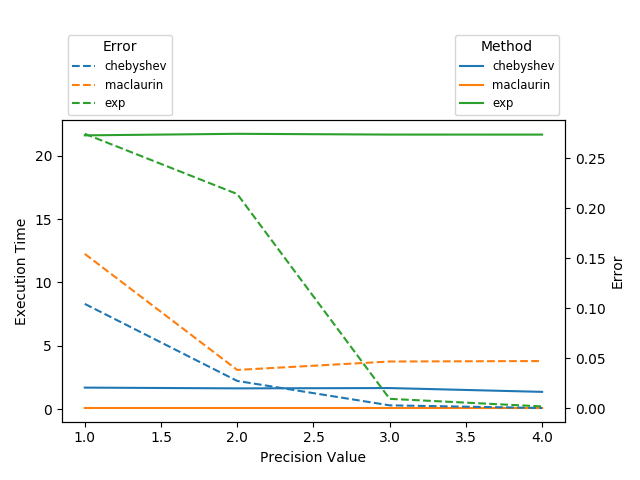
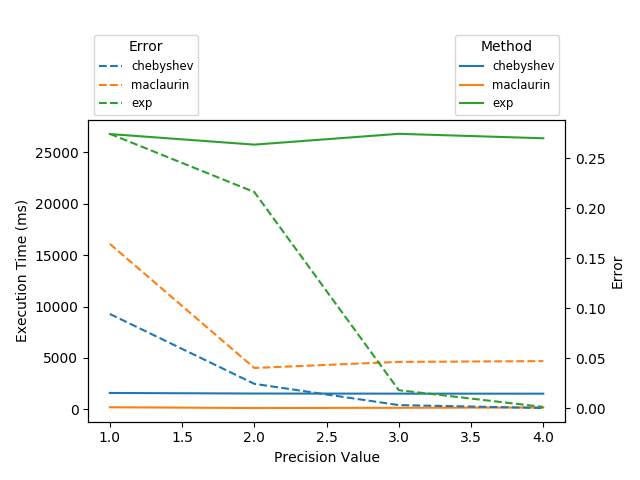
added execution time in ms, bugs fixed

diff --git a/syft/frameworks/torch/mpc/benchmarks/scripts/benchmark_sigmoid.py b/syft/frameworks/torch/mpc/benchmarks/scripts/benchmark_sigmoid.py
@@ -8,7 +8,7 @@ from syft.frameworks.torch.mpc.benchmarks.scripts.benchmark_sample_data import (
 )
 
 
-def benchmark_sigmoid(method, prec_frac, workers):
+def benchmark_sigmoid(method, prec_frac, tolerance, workers):
     """
     This function approximates the sigmoid function using a given method.
 
@@ -31,6 +31,9 @@ def benchmark_sigmoid(method, prec_frac, workers):
     # Calculation of the difference between FPT and normal sigmoid (error)
     diff = (r - t).abs().max()
     return diff.item()
+    # norm = (r + t).abs().max() / 2
+    #
+    # return (diff / (tolerance * norm)) < 1
 
 
 def sigmoid_approximation_plot(benchmark_data_sigmoid):
@@ -76,6 +79,7 @@ def sigmoid_approximation_plot(benchmark_data_sigmoid):
                 temp_error.append(error)
 
             final_time_taken = sum(temp_time_taken) / len(temp_time_taken)
+            final_time_taken *= 1000
             final_error = sum(temp_error) / len(temp_error)
             x_data.append(precision_value)
             y_data.append(final_time_taken)
@@ -89,12 +93,13 @@ def sigmoid_approximation_plot(benchmark_data_sigmoid):
 
     # plotting of the data
     ax1.set_xlabel("Precision Value")
-    ax1.set_ylabel("Execution Time")
+    ax1.set_ylabel("Execution Time (ms)")
     ax2.set_ylabel("Error")
     ax1.legend(bbox_to_anchor=(1, 1.3), loc="upper right", title="Method", fontsize="small")
     ax2.legend(bbox_to_anchor=(0, 1.3), loc="upper left", title="Error", fontsize="small")
     plt.tight_layout()
-    plt.savefig("graphs/sigmoid_function_approximations_benchmark.png")
+    plt.savefig("../graphs/sigmoid_function_approximations_benchmark.png")
+    plt.show()
 
 
 # calling sigmoid_approximation_plot function
